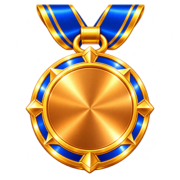
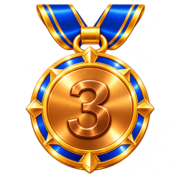
Add files via upload

diff --git a/index.html b/index.html
@@ -23,12 +23,8 @@
         .rank-table tr.rank-gold td { background:#fff7d6; }
         .rank-table tr.rank-silver td { background:#f1f5f9; }
         .rank-table tr.rank-bronze td { background:#fff0e3; }
-        .rank-medal { position:relative; display:inline-block; width:48px; height:48px; vertical-align:middle; }
+        .rank-medal { display:inline-block; width:48px; height:48px; vertical-align:middle; }
         .rank-medal img { display:block; width:100%; height:100%; object-fit:contain; filter:drop-shadow(0 2px 2px rgba(30,41,59,.28)); }
-        .rank-medal-number { position:absolute; left:50%; top:66%; transform:translate(-50%,-50%); font-size:15px; line-height:1; font-weight:900; text-shadow:0 1px 1px rgba(255,255,255,.65); }
-        .rank-medal-gold .rank-medal-number { color:#754600; }
-        .rank-medal-silver .rank-medal-number { color:#485363; }
-        .rank-medal-bronze .rank-medal-number { color:#743814; }
         .rank-gap td { height:24px; border:0; padding:0; }
     </style>
 </head>
@@ -692,20 +688,13 @@
                 tr.className = [placeClass, row.isMe ? 'rank-me' : ''].filter(Boolean).join(' ');
                 const rankCell = document.createElement('td');
                 if (place >= 1 && place <= 3) {
-                    const medal = document.createElement('span');
-                    medal.className = `rank-medal rank-medal-${placeClass.slice(5)}`;
-                    medal.setAttribute('role', 'img');
-                    medal.setAttribute('aria-label', `Huy chương ${place === 1 ? 'vàng' : place === 2 ? 'bạc' : 'đồng'}, hạng ${place}`);
                     const medalImage = document.createElement('img');
+                    medalImage.className = 'rank-medal';
                     medalImage.src = `medal-${place === 1 ? 'gold' : place === 2 ? 'silver' : 'bronze'}.png`;
-                    medalImage.alt = '';
-                    medalImage.setAttribute('aria-hidden', 'true');
-                    const number = document.createElement('span');
-                    number.className = 'rank-medal-number';
-                    number.textContent = String(place);
-                    number.setAttribute('aria-hidden', 'true');
-                    medal.append(medalImage, number);
-                    rankCell.appendChild(medal);
+                    medalImage.alt = `Huy chương ${place === 1 ? 'vàng' : place === 2 ? 'bạc' : 'đồng'}, hạng ${place}`;
+                    medalImage.width = 48;
+                    medalImage.height = 48;
+                    rankCell.appendChild(medalImage);
                 } else {
                     rankCell.textContent = String(row.rank);
                 }
